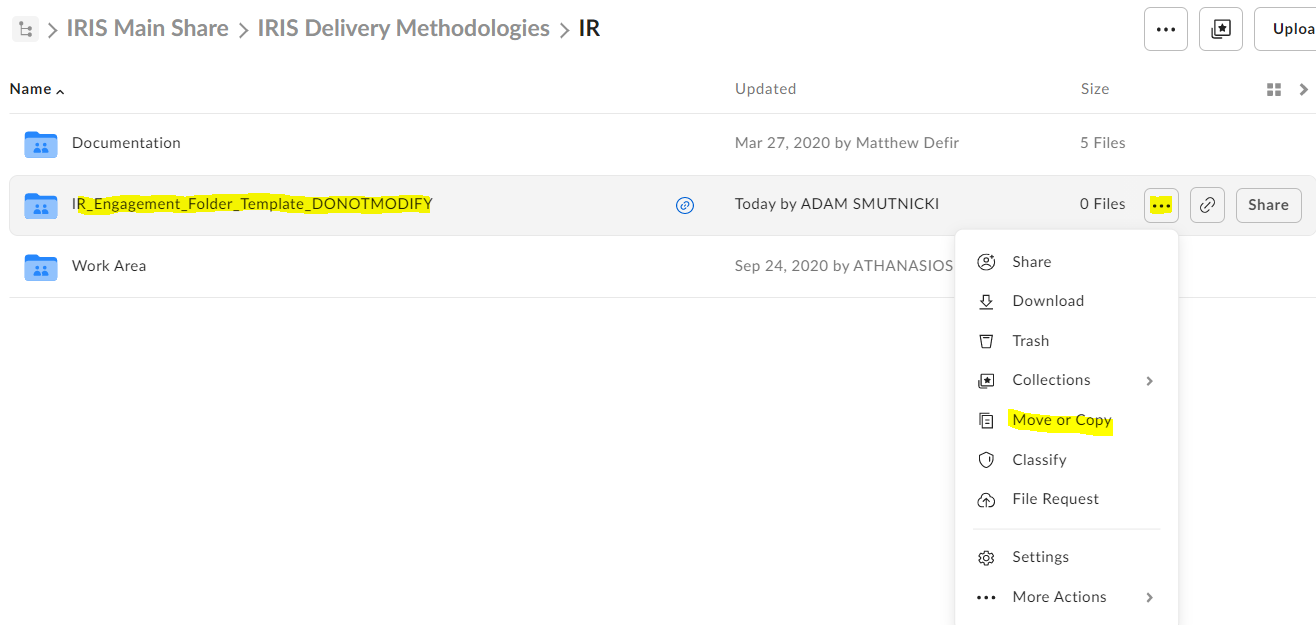
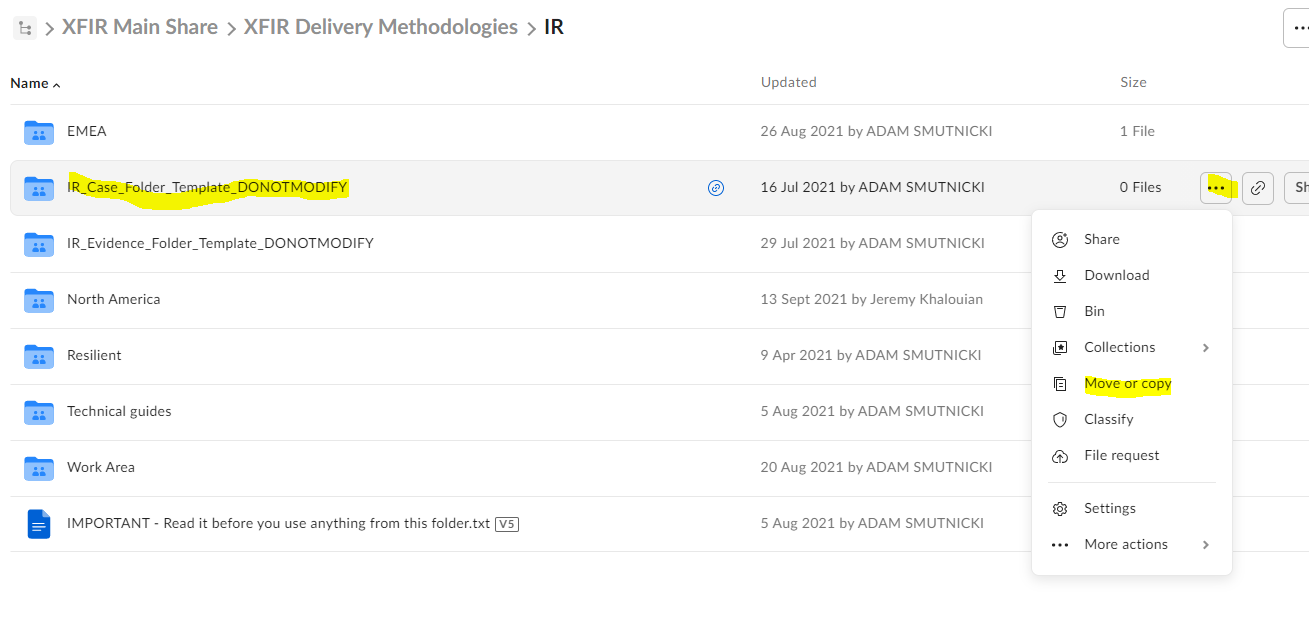
Bugs correction on Spin up page

diff --git a/SpinUp.md b/SpinUp.md
@@ -137,22 +137,20 @@ When creating your Engagement Slack channel make sure you are in the  `X-Force I
 <p align="center" width="100%"><img src="screenshots/Slack_02.png"></p>
 
 ### Case Folder at Box
-1. Navigate to a folder containing case folder template "IR_Engagement_Folder_Template_DONOTMODIFY" https://ibm.ent.box.com/folder/63956024543
+1. Navigate to a folder containing "Case Folder" template (link provided <a href="#Internal-XFIR-Working-Environment">above</a>). 
 2. Pick "Move or Copy" from 3 dots menu for template folder
 <p align="center" width="100%"><img src="screenshots/Box_engagement_folder1.png"></p>
 3. Pick up a destination of the folder (engagements folder specific for each geography listed above) and click "Copy".
-<p align="center" width="100%"><img src="screenshots/Box_engagement_folder2.png"></p>
 4. Navigate to a destination where folder was created, you may receive a green pop-up at the bottom of the page with option to show newly created folder.
-<p align="center" width="100%"><img src="screenshots/Box_engagement_folder3.png"></p>
-5. Rename created folder according to requirements provided in the section <a href="#Environment-for-Data-Sharing-with-a-Client">Environment for Data Sharing with a Client</a>. 
-<p align="center" width="100%"><img src="screenshots/Box_engagement_folder4.png"></p>
+<p align="center" width="100%"><img src="screenshots/Box_engagement_folder2.png"></p>
+5. Rename created folder according to requirements provided for "Case Folder" in the section <a href="#Internal-XFIR-Working-Environment">above</a>. 
 
 
 ### Evidence Folder at Box
 1.  Browse to the root of your IBM Box account:  [https://ibm.ent.box.com/folder/0](https://ibm.ent.box.com/folder/0)
 2. On the right side chose "New" and then "Folder"
 <p align="center" width="100%"><img src="screenshots/Box_upload_folder1.png"></p>
-3. Enter folder name according to requirements provided in the section <a href="#Environment-for-Data-Sharing-with-a-Client">Environment for Data Sharing with a Client</a> and click "Create". Add XFIR team members working on this case with "Co-worker" permissions.
+3. Enter folder name according to requirements provided for "Evidence Folder" in the section <a href="#Internal-XFIR-Working-Environment">above</a> and click "Create". Add XFIR team members working on this case with "Co-worker" permissions.
 <p align="center" width="100%"><img src="screenshots/Box_upload_folder2.png"></p>
 4. Navigate to newly created folder. <br />
 5. Click "Share" on the right side to invite Client representatives.

diff --git a/Engagement-Closeout.md b/Engagement-Closeout.md
@@ -21,7 +21,7 @@ The purpose of this page is to document the closeout procedure for DFIR engageme
 	3. Send password to the client's primary point of contact using separate channel, eg. text message to a mobile phone (SMS/text message).
 2. Upload attachments to the Resilient IR ticket:
 	- final report in the source docx file,
-	- final report in encrypted PDF file,
+	- final report in password protected PDF file,
 	- text file called `pass.txt` containing password for final report in encrypted PDF,
 	- final version of ETS,
 	- if the Final Report referenced external documents these should be attached in their editable form and the form sent to the client (including password).
